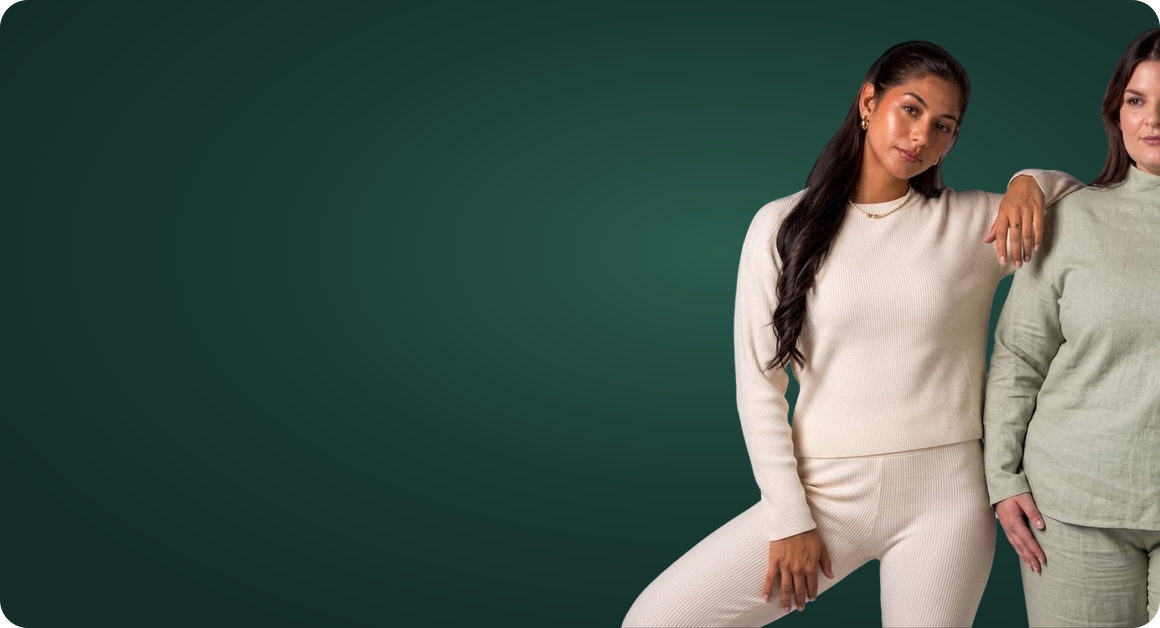
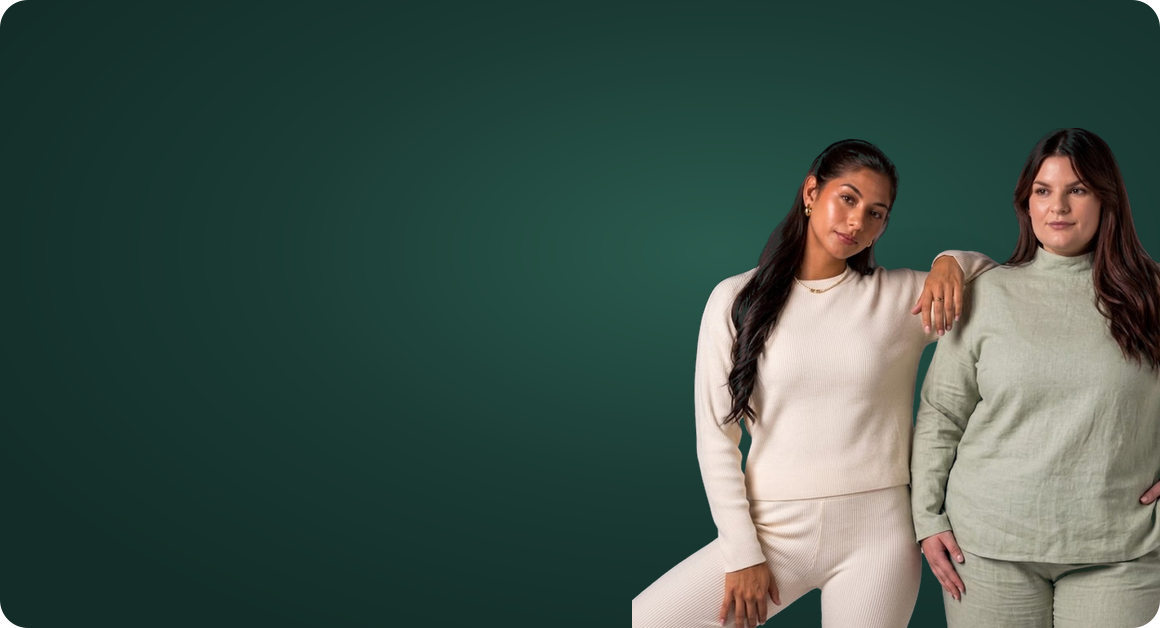
Order confirmation: stop the hero photo clipping at the top of the card
In real inboxes the two-women photo was cut off at the top of the green
hero card. Two causes, both fixed:

- The hero cell relied on height + padding adding up to the artwork's
  314px. Clients that treat td height as border-box made the cell
  shorter and re-centred the background, pushing the heads off the top.
  The cell is now a fixed 314px with zero padding (copy padding moved to
  the inner table) and anchored left/top explicitly.
- Regenerated confirm-hero-card.png / -2x.png with ~75px of headroom
  above the tallest head (was 26px), so even a client that does shift
  the image keeps both faces fully visible.

Also adds the missing mobile rules for this hero: under 620px the
background is dropped and the photo stacks under the copy, so narrow
screens no longer crop the picture on the right.

Changed region(s): [[0.5276, 0.0303, 1.0, 1.0], [0.5586, 0.8774, 0.5897, 0.9379]]

diff --git a/lib/account-email.ts b/lib/account-email.ts
@@ -774,7 +774,13 @@ export async function sendOrderConfirmationEmail(
 <html lang="en"><head><meta charset="utf-8"/>
 <meta name="viewport" content="width=device-width,initial-scale=1"/>
 <meta name="color-scheme" content="light only"/>
-<style>${emailFontCss(url)}</style></head>
+<style>${emailFontCss(url)}
+    @media only screen and (max-width:620px){
+      td.bgcard{background-image:none !important;height:auto !important;padding:0 0 0 !important}
+      table.meas{width:100% !important}
+      table.meas td{padding:30px 20px 0 !important}
+      img.mob-art{display:block !important;width:100% !important;max-width:300px !important;max-height:none !important;height:auto !important;margin:18px auto 0 !important;border-radius:0 0 14px 14px}
+    }</style></head>
 <body style="margin:0;padding:0;background:#ffffff;letter-spacing:0;-webkit-font-smoothing:antialiased">
 <div style="display:none;max-height:0;overflow:hidden;opacity:0;color:transparent">Order ${escapeHtml(opts.orderNumber)} confirmed &mdash; here&rsquo;s exactly what happens from here.</div>
 <table role="presentation" width="100%" cellpadding="0" cellspacing="0" style="background:#ffffff">
@@ -789,8 +795,8 @@ export async function sendOrderConfirmationEmail(
       <!-- Hero -->
       <tr><td style="padding:12px 10px 0">
         <table role="presentation" class="em-card" width="580" cellpadding="0" cellspacing="0" style="width:580px;max-width:100%;background:#132c27;border-radius:14px">
-          <tr><td class="bgcard" height="234" background="${img}/confirm-hero-card.png" style="height:234px;background-color:#132c27;background-image:url('${img}/confirm-hero-card-2x.png');background-size:580px 314px;background-repeat:no-repeat;background-position:top left;border-radius:14px;padding:40px 18px 40px">
-            <table role="presentation" class="meas" width="300" cellpadding="0" cellspacing="0" style="width:300px"><tr><td>
+          <tr><td class="bgcard" height="314" valign="top" background="${img}/confirm-hero-card.png" style="height:314px;background-color:#132c27;background-image:url('${img}/confirm-hero-card-2x.png');background-size:580px 314px;background-repeat:no-repeat;background-position:left top;border-radius:14px;padding:0">
+            <table role="presentation" class="meas" width="318" cellpadding="0" cellspacing="0" style="width:318px"><tr><td style="padding:62px 0 0 18px">
               <p style="margin:0;font-family:${GIL};font-size:26px;font-weight:500;line-height:32px;color:#ffffff">Thank you</p>
               <p style="margin:0 0 10px;font-family:${SER};font-style:italic;font-size:40px;line-height:44px;color:#ffffff">Your Order Is<br/>Confirmed.</p>
               <p style="margin:0;font-family:${SANS};font-size:13px;font-weight:600;line-height:18px;color:#ffffff">Order <span style="font-weight:700">#${escapeHtml(opts.orderNumber)}</span></p>
